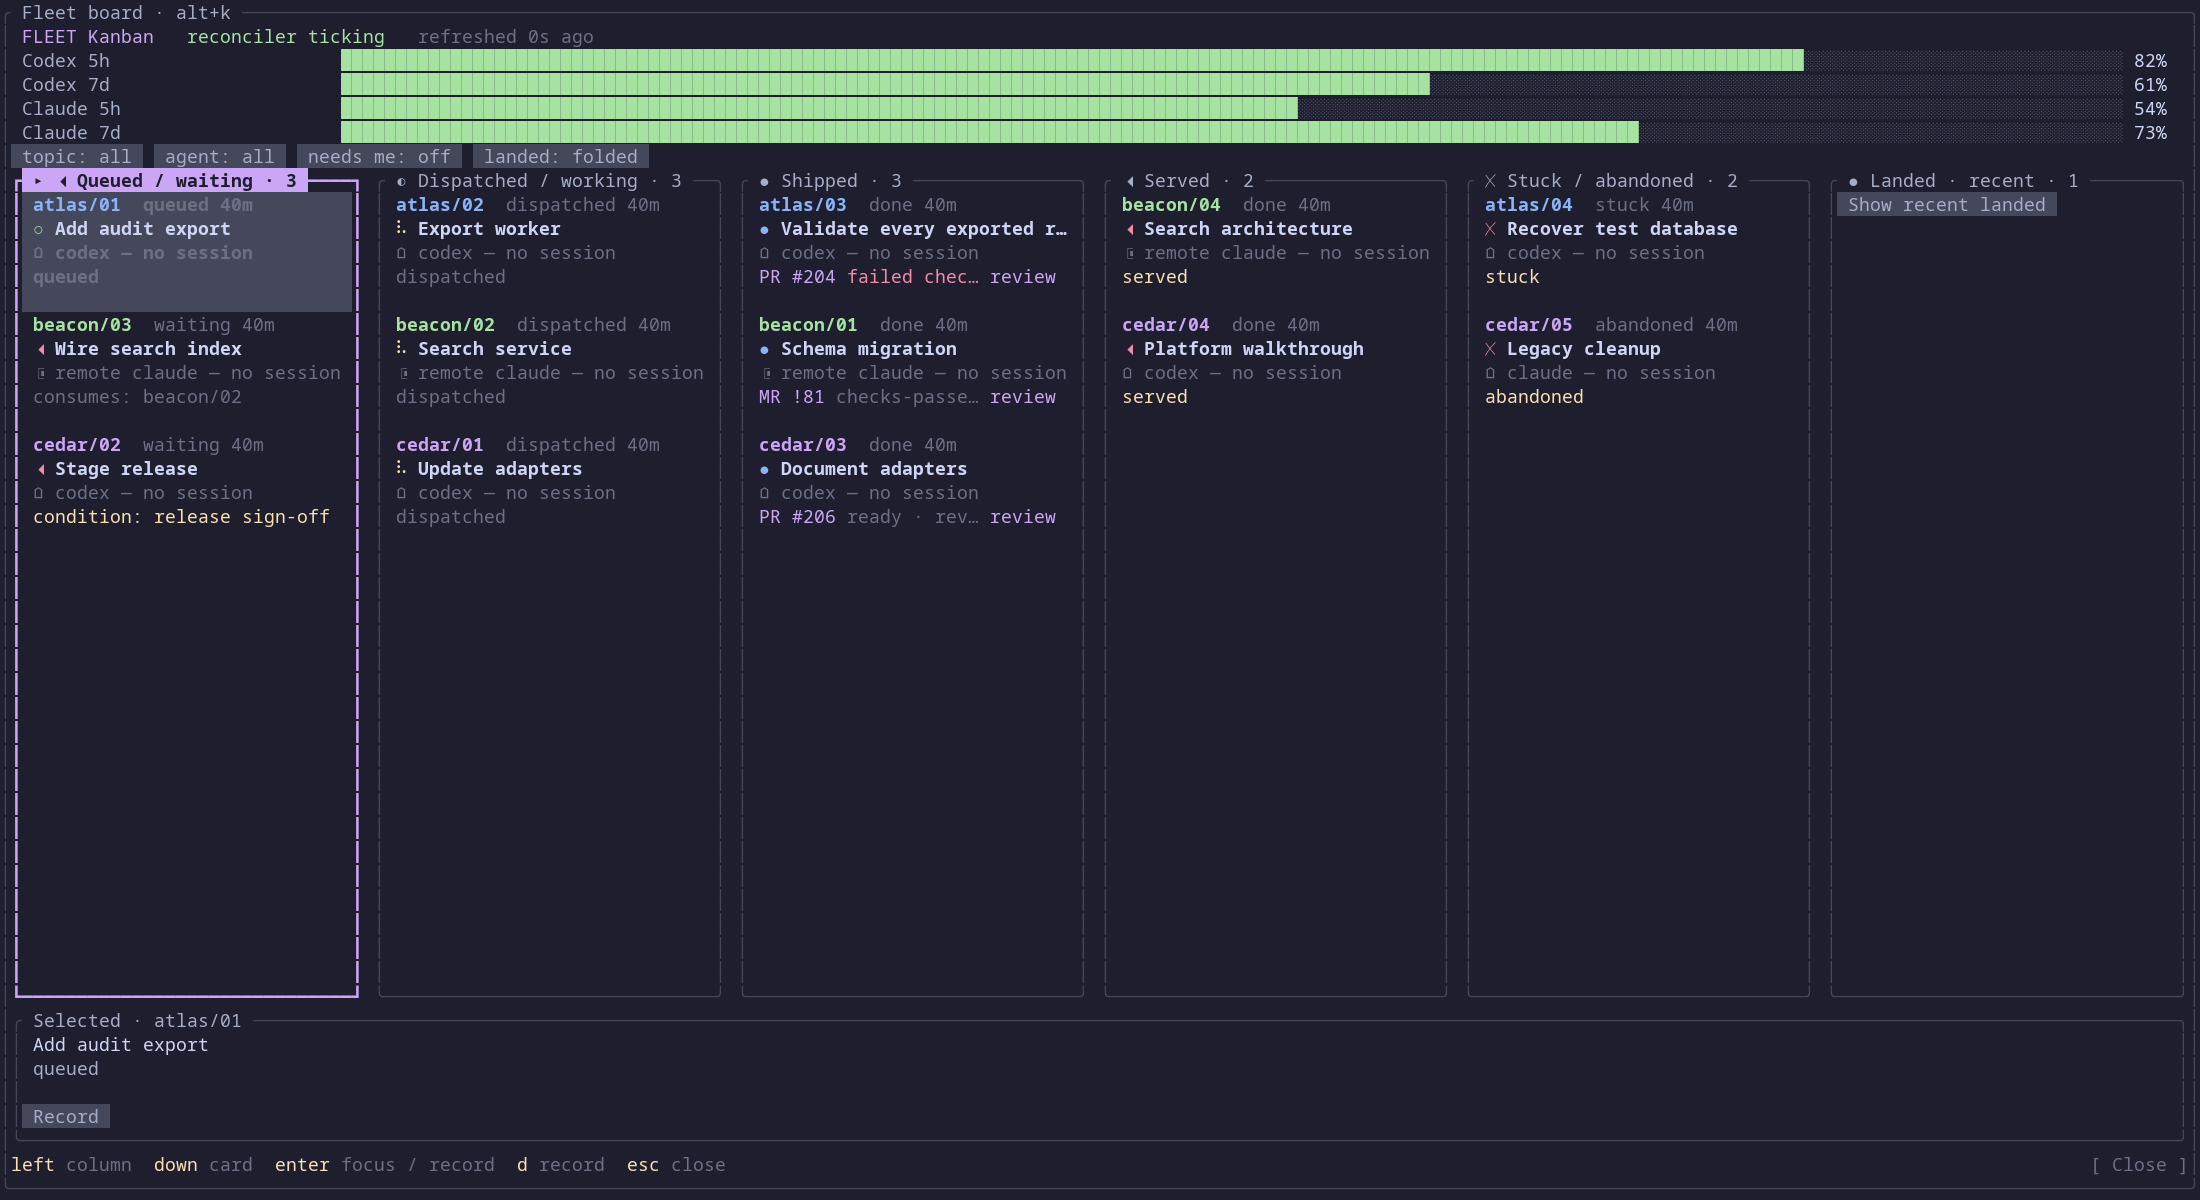
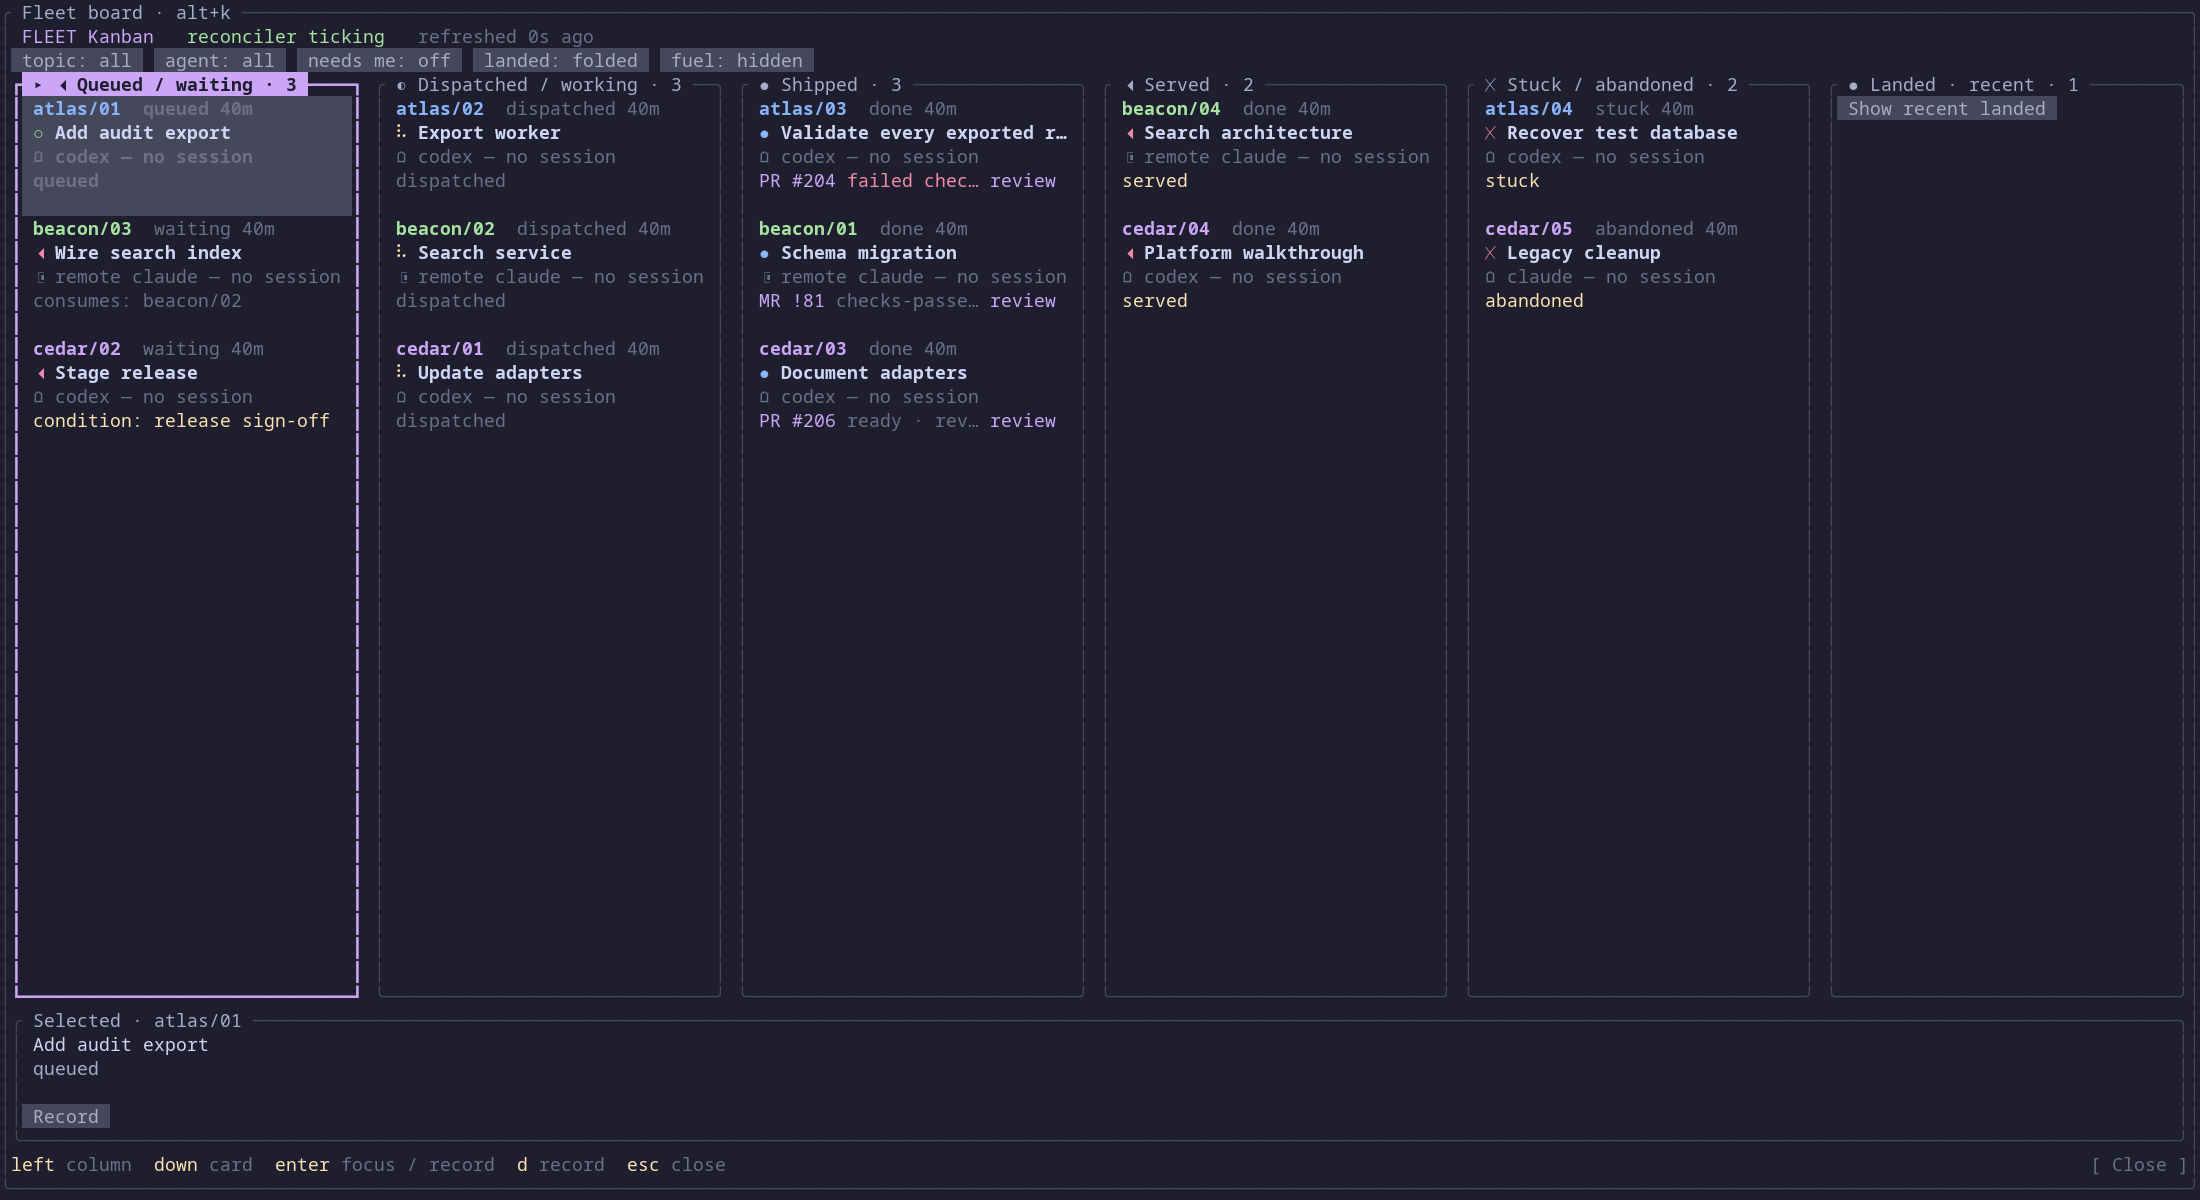
docs: refresh topic picker and optional fuel captures

Changed region(s): [[0.0, 0.0308, 0.9891, 0.4317], [0.8345, 0.1542, 0.9582, 0.185]]

diff --git a/.agents/skills/fleet-pane/SKILL.md b/.agents/skills/fleet-pane/SKILL.md
@@ -164,8 +164,11 @@ check` came back unplaced.
 It shares the column’s probes and trust. Arrows and clicks select cards; Enter
 focuses a live session or opens `fleet queue show` when there is none. `d`
 always opens the record. Esc goes back, then closes the board. The topic,
-agent, needs-me and landed chips are clickable; `t`, `a`, `n`, `l` reach the
-same actions. Wheel scrolling moves the selected column’s card (click another
+agent, needs-me and landed chips are clickable. `t` opens a searchable topic
+picker with names and task counts; type a name or slug, then Enter or click to
+apply. Esc cancels, All topics clears the filter. `a`, `n`, `l` reach the
+other chips. Fuel starts hidden; its chip or `f` shows compact gauges in two
+columns. Wheel scrolling moves the selected column’s card (click another
 column first), or scrolls the detail view.
 Recent landed cards (24 hours) start folded. The board uses the active theme,
 native link roles. Thurbox 2.51.7 blocks drag-selection in floating panes;

diff --git a/README.md b/README.md
@@ -56,8 +56,11 @@ the installer again is safe.
 `F3` shows and hides the queue column. `Alt+K` opens the full-screen Kanban
 board over your layout. Arrow keys and clicks select cards; Enter focuses a
 live worker, or opens its queue record when no session remains. `d` always
-opens the record. The topic, agent, needs-me and landed chips filter or fold
-the view. Esc returns from the record, then closes the board.
+opens the record. Click the topic chip or press `t` to search topic names and
+slugs, then select with Enter or a click. Esc cancels; All topics clears the
+filter. Agent, needs-me and landed chips filter or fold the view. Fuel is
+hidden by default; click its chip or press `f` for compact gauges in two
+columns. Esc returns from the record, then closes the board.
 
 The board uses six columns, arranged in two bands below 180 terminal columns.
 Recent landed work (the last 24 hours) starts folded. Links

diff --git a/media/fleet-board/README.md b/media/fleet-board/README.md
@@ -10,5 +10,8 @@ the plain `.txt` files preserve the full screen. PNGs are raster previews of
 those ANSI captures, using local font fallback rather than a terminal emulator
 screenshot. The native TUI was also exercised with mouse card selection,
 selected-column wheel scrolling, filter-chip clicks, hover and arrow keys in
-both themes. Native drag-selection was also exercised and is blocked by
+both themes, including topic search/selection/cancel/clear. Default board
+captures hide fuel; `-fuel` captures show its compact two-column gauges, and
+`-topics` captures show the searchable picker. Native drag-selection was also
+exercised and is blocked by
 thurbox 2.51.7’s float input routing; the board cannot enable copying itself.
